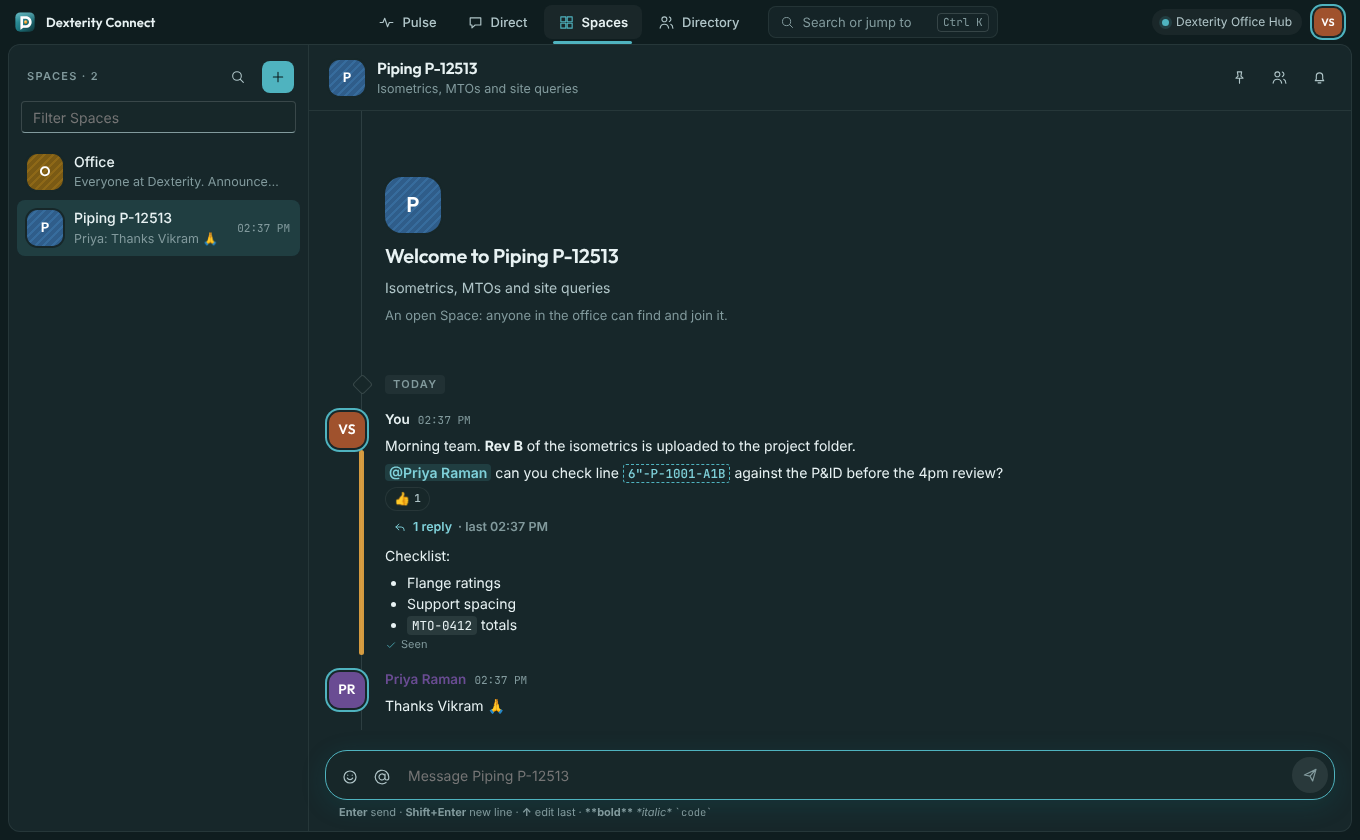
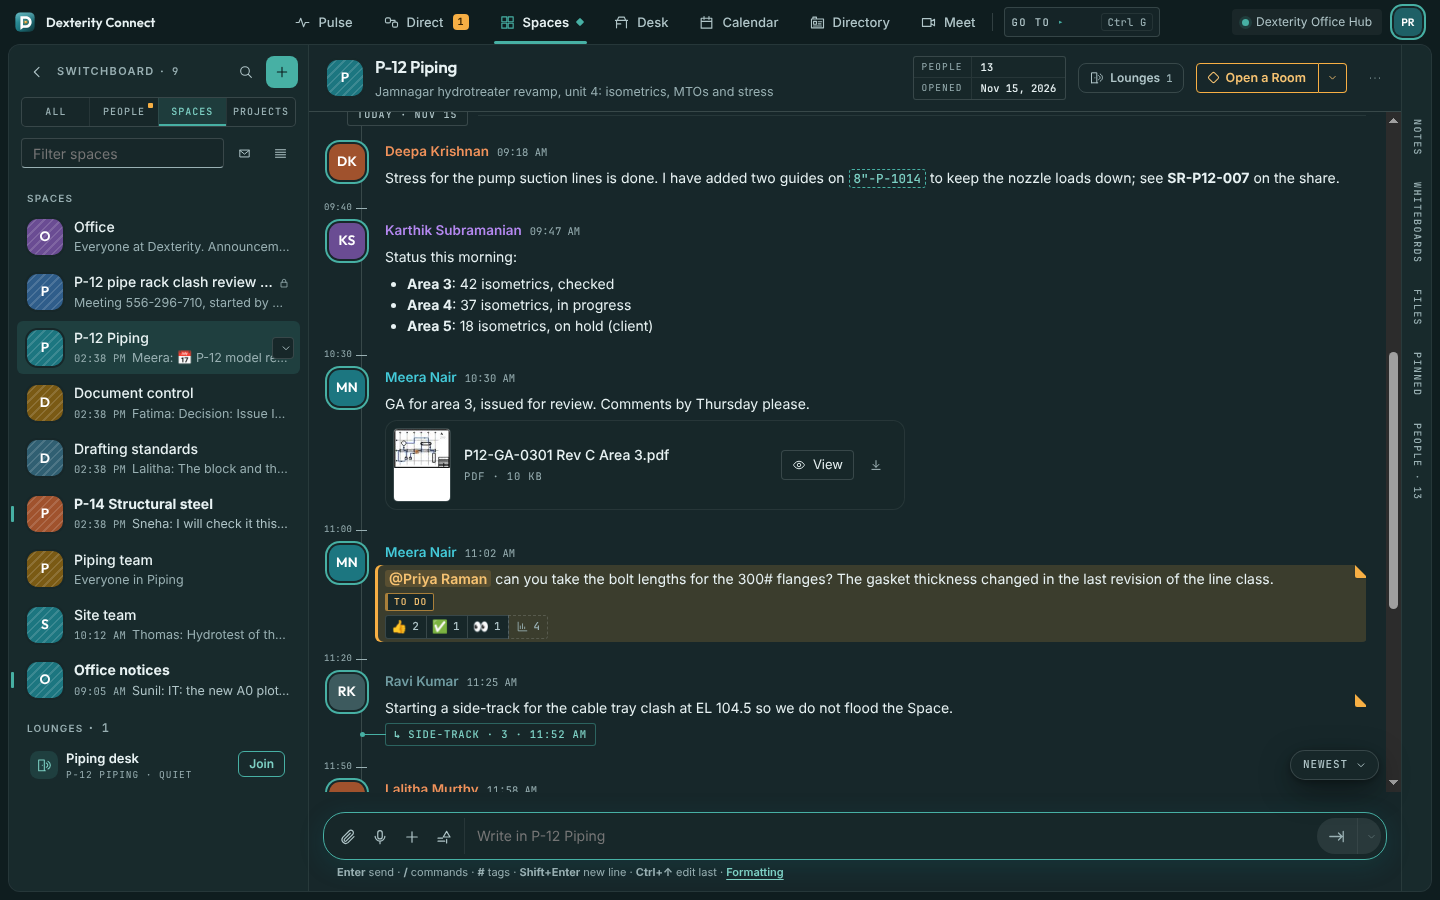
Real screenshots of the current app; meetings, the office drawing, the bot maker and the drawing viewer; claims and shortcuts brought up to date
Claude-Session: https://claude.ai/code/session_01Wvy4AEjSnCgm6R5Urcwzkm

diff --git a/index.html b/index.html
@@ -263,7 +263,7 @@ footer a { color: var(--ink-2); text-decoration: none; }
         <div class="copy">
           <span class="label">Light &amp; dark</span>
           <h3>At home on Windows 11, by day and by night.</h3>
-          <p>Mica surfaces, the system's light or dark mode, and a Ctrl+K palette that jumps to any person, Space or command.</p>
+          <p>Mica surfaces, the system's light or dark mode, and GO TO (Ctrl+G), which jumps to any person, Space or command.</p>
           <ul class="ticks"><li>Pulse shows only what needs you</li><li>Native notifications that open the right conversation</li><li>Unread badge on the taskbar</li></ul>
         </div>
         <div class="shot"><img src="assets/screen-space-dark.png" alt="Dexterity Connect in dark mode" loading="lazy" /></div>
@@ -278,26 +278,65 @@ footer a { color: var(--ink-2); text-decoration: none; }
         <div class="phone-shot"><img src="assets/screen-phone.png" alt="Dexterity Connect on a phone" loading="lazy" /></div>
       </div>
 
+      <div class="feature reveal">
+        <div class="copy">
+          <span class="label">Rooms &amp; meetings</span>
+          <h3>Meetings drawn like a sheet, not a video wall.</h3>
+          <p>Every seat has a grid reference, the host's controls sit in a title block, and leaving is an amber door, not a red handset. Record with chapters for who spoke when, split into breakout rooms, or run a webinar for clients.</p>
+          <ul class="ticks"><li>Lobby, waiting room and host controls</li><li>Background blur and noise suppression on the PC</li><li>Guests join from a browser, no install</li></ul>
+        </div>
+        <div class="shot"><img src="assets/screen-room.png" alt="A Room with three colleagues and the host's controls" loading="lazy" /></div>
+      </div>
+
+      <div class="feature flip reveal">
+        <div class="copy">
+          <span class="label">The office drawing</span>
+          <h3>An org chart you can walk through.</h3>
+          <p>The office laid out as an engineering drawing: departments as areas, reporting lines as routed runs, everyone as a tagged plate that shows who is in. Pan and zoom like a CAD viewer, ask how you connect to someone, or switch to the floor plan and walk to their desk.</p>
+          <ul class="ticks"><li>New joiners, birthdays and work anniversaries marked on the sheet</li><li>See who works together across Spaces</li><li>Replay how the office grew</li></ul>
+        </div>
+        <div class="shot"><img src="assets/screen-office-drawing.png" alt="The office drawing showing the route between two colleagues" loading="lazy" /></div>
+      </div>
+
+      <div class="feature reveal">
+        <div class="copy">
+          <span class="label">Bot maker</span>
+          <h3>Make your own bot in a few minutes.</h3>
+          <p>Plot requests, leave notes, RFI logs, site visits: pick a template or describe it in words, give it a mark, a voice and office hours, and try it beside the editor before anyone sees it. Keep it to yourself, share it with a Space, or ask for it office-wide.</p>
+          <ul class="ticks"><li>No code; the JSON is there if you want it</li><li>Remembers answers ("Same site as last time?")</li><li>Shows where people stop, so you can fix the question</li></ul>
+        </div>
+        <div class="shot"><img src="assets/screen-bot-maker.png" alt="The bot maker with a live test run" loading="lazy" /></div>
+      </div>
+
+      <div class="feature flip reveal">
+        <div class="copy">
+          <span class="label">Drawings</span>
+          <h3>Open an A0 sheet right in the conversation.</h3>
+          <p>PDFs show their first page in the message and open in a viewer built for drawings: fit, zoom to 800%, search the text, rotate, and stay quick on large sheets. Files sent in an encrypted Direct conversation are encrypted on your PC before they leave it.</p>
+        </div>
+        <div class="shot"><img src="assets/screen-pdf.png" alt="A GA drawing open in the PDF viewer" loading="lazy" /></div>
+      </div>
+
       <div class="cards">
         <div class="card wide reveal"><div class="ico"><svg width="20" height="20" viewBox="0 0 24 24" fill="none" stroke="currentColor" stroke-width="1.8"><path d="M12 20a8 8 0 1 0 0-16 8 8 0 0 0 0 16ZM4 12h16M12 4c2.2 2.2 3.3 4.9 3.3 8s-1.1 5.8-3.3 8c-2.2-2.2-3.3-4.9-3.3-8S9.8 6.2 12 4Z"/></svg></div><h3>From home or the road</h3><p>Use every feature on your laptop or phone from home, on leave or on mobile data. Your device talks to the office hub through an encrypted channel; the office opens no ports.</p></div>
-        <div class="card reveal"><div class="ico"><svg width="20" height="20" viewBox="0 0 24 24" fill="none" stroke="currentColor" stroke-width="1.8"><path d="M3.5 6.5h12v11h-12zM15.5 10.5l5-3v9l-5-3"/></svg></div><h3>Rooms</h3><p>Voice and video calls for up to eight people with screen sharing and recording. In the office the media goes PC to PC over the LAN; from home it is encrypted end to end with WebRTC.</p></div>
+        <div class="card reveal"><div class="ico"><svg width="20" height="20" viewBox="0 0 24 24" fill="none" stroke="currentColor" stroke-width="1.8"><path d="M3.5 6.5h12v11h-12zM15.5 10.5l5-3v9l-5-3"/></svg></div><h3>Rooms and meetings</h3><p>Voice and video with screen sharing, recording with chapters, a lobby, breakout rooms and webinars. Up to eight people talk PC to PC; larger Rooms run through the office hub's relay. Clients can join from a browser.</p></div>
         <div class="card reveal"><div class="ico"><svg width="20" height="20" viewBox="0 0 24 24" fill="none" stroke="currentColor" stroke-width="1.8"><path d="M20 11.5 12 19.5a5 5 0 0 1-7-7l8.5-8.5a3.3 3.3 0 0 1 4.7 4.7L9.7 17.2a1.7 1.7 0 0 1-2.4-2.4L15 7"/></svg></div><h3>Files, voice and video</h3><p>Drag, drop or paste drawings, photos and sheets up to 1 GB. Voice notes, video messages and screen recordings play right in the conversation.</p></div>
-        <div class="card reveal"><div class="ico"><svg width="20" height="20" viewBox="0 0 24 24" fill="none" stroke="currentColor" stroke-width="1.8"><path d="M10.5 17a6.5 6.5 0 1 0 0-13 6.5 6.5 0 0 0 0 13Zm4.7-1.8L20 20"/></svg></div><h3>Search everything</h3><p>Find messages and files by who, where and when, including the text in photos of nameplates and markups, and jump straight to the message.</p></div>
+        <div class="card reveal"><div class="ico"><svg width="20" height="20" viewBox="0 0 24 24" fill="none" stroke="currentColor" stroke-width="1.8"><path d="M10.5 17a6.5 6.5 0 1 0 0-13 6.5 6.5 0 0 0 0 13Zm4.7-1.8L20 20"/></svg></div><h3>Search everything</h3><p>Find messages and files by who, where and when, including the text in photos of nameplates and markups. End-to-end encrypted Direct messages are searched on your own PC, never on the hub.</p></div>
         <div class="card reveal"><div class="ico"><svg width="20" height="20" viewBox="0 0 24 24" fill="none" stroke="currentColor" stroke-width="1.8"><path d="M12 20a8 8 0 1 0 0-16 8 8 0 0 0 0 16Zm0-12v4.5l3 2"/></svg></div><h3>Presence that means something</h3><p>Available, Busy, Do not disturb or Invisible. You show as away automatically when your PC is idle or locked, and as in a Room during calls.</p></div>
         <div class="card reveal"><div class="ico"><svg width="20" height="20" viewBox="0 0 24 24" fill="none" stroke="currentColor" stroke-width="1.8"><path d="M4 19.5h16M6 19.5V9.5l6-4 6 4v10M10 19.5v-5h4v5"/></svg></div><h3>Your Desk</h3><p>Reminders for you or a colleague, saved messages, messages scheduled to send later, personal notes and your timesheet, in one place.</p></div>
         <div class="card reveal"><div class="ico"><svg width="20" height="20" viewBox="0 0 24 24" fill="none" stroke="currentColor" stroke-width="1.8"><path d="M4.5 6.5h15v13h-15zM4.5 10.5h15M8.5 4v4M15.5 4v4"/></svg></div><h3>Calendar and rooms</h3><p>Meetings with invitations and replies, repeating events, conference rooms that cannot be double-booked, and one click to join the call.</p></div>
-        <div class="card reveal"><div class="ico"><svg width="20" height="20" viewBox="0 0 24 24" fill="none" stroke="currentColor" stroke-width="1.8"><path d="M12 4.5a3 3 0 1 1 0 6 3 3 0 0 1 0-6zM5.5 19.5a6.5 6.5 0 0 1 13 0"/></svg></div><h3>Directory and org chart</h3><p>Departments, designations, reporting lines, extensions and seats, with an org chart and a CSV import from Excel or Dexterity Sheets.</p></div>
-        <div class="card reveal"><div class="ico"><svg width="20" height="20" viewBox="0 0 24 24" fill="none" stroke="currentColor" stroke-width="1.8"><path d="M12 20a8 8 0 1 0 0-16 8 8 0 0 0 0 16Zm-3.5-8 2.5 2.5 4.5-5"/></svg></div><h3>Check in from anywhere</h3><p>Check in from the office, home, a site or a client's, with breaks, a live who's-working view and attendance reports for managers.</p></div>
+        <div class="card reveal"><div class="ico"><svg width="20" height="20" viewBox="0 0 24 24" fill="none" stroke="currentColor" stroke-width="1.8"><path d="M12 4.5a3 3 0 1 1 0 6 3 3 0 0 1 0-6zM5.5 19.5a6.5 6.5 0 0 1 13 0"/></svg></div><h3>Directory</h3><p>Departments, designations, reporting lines, extensions and seats, with a CSV import from Excel or Dexterity Sheets, and a register of everyone in the office.</p></div>
+        <div class="card reveal"><div class="ico"><svg width="20" height="20" viewBox="0 0 24 24" fill="none" stroke="currentColor" stroke-width="1.8"><path d="M12 20a8 8 0 1 0 0-16 8 8 0 0 0 0 16Zm-3.5-8 2.5 2.5 4.5-5"/></svg></div><h3>A day log, from anywhere</h3><p>Start your day at the office, at home, on site or at a client's, with breaks, a live who's-working view and attendance reports for managers.</p></div>
         <div class="card reveal"><div class="ico"><svg width="20" height="20" viewBox="0 0 24 24" fill="none" stroke="currentColor" stroke-width="1.8"><path d="M4 12h3l2-5 4 10 2-5h5"/></svg></div><h3>Works with the hub off</h3><p>If the hub PC is down, PCs find each other and pass encrypted Direct messages straight across; the history catches up when it is back.</p></div>
         <div class="card reveal"><div class="ico"><svg width="20" height="20" viewBox="0 0 24 24" fill="none" stroke="currentColor" stroke-width="1.8"><path d="M12 3.5 5 6v5.5c0 4.3 2.9 7.9 7 9 4.1-1.1 7-4.7 7-9V6z"/></svg></div><h3>Guests and compliance</h3><p>Invite clients to chosen Spaces for a set time. Retention, legal holds, exports, edit windows, upload limits and a usage report for admins.</p></div>
         <div class="card reveal"><div class="ico"><svg width="20" height="20" viewBox="0 0 24 24" fill="none" stroke="currentColor" stroke-width="1.8"><path d="M5 19.5V11M10 19.5V5M15 19.5v-6M20 19.5V8"/></svg></div><h3>Polls, forms and whiteboards</h3><p>Ask the room with a poll or a form, keep shared notes per conversation, and sketch on a live whiteboard that posts as an image.</p></div>
-        <div class="card reveal"><div class="ico"><svg width="20" height="20" viewBox="0 0 24 24" fill="none" stroke="currentColor" stroke-width="1.8"><path d="M4 7.5h16v10H4zM7 10.5h.01M10 10.5h.01M13 10.5h.01M16 10.5h.01M8 14.5h8"/></svg></div><h3>Made for the keyboard</h3><p>Ctrl+K for anything, Ctrl+Shift+F to search, Alt+arrows between conversations, plus compact density, text size and quiet notification sounds.</p></div>
+        <div class="card reveal"><div class="ico"><svg width="20" height="20" viewBox="0 0 24 24" fill="none" stroke="currentColor" stroke-width="1.8"><path d="M4 7.5h16v10H4zM7 10.5h.01M10 10.5h.01M13 10.5h.01M16 10.5h.01M8 14.5h8"/></svg></div><h3>Made for the keyboard</h3><p>Ctrl+G to go anywhere, Ctrl+Shift+F to search, Alt+arrows between conversations, plus compact density, text size and quiet notification sounds.</p></div>
       </div>
 
       <div class="stats reveal">
         <div><b>0</b><span>connections to the internet needed</span></div>
         <div><b>&lt;50 ms</b><span>message delivery across the office</span></div>
-        <div><b>~150 KB</b><span>compressed interface code, so it opens instantly</span></div>
+        <div><b>0.6 s</b><span>from click to a working window, with 60,000 messages in the office</span></div>
         <div><b>4</b><span>platforms from one codebase</span></div>
       </div>
     </div>
@@ -324,10 +363,10 @@ footer a { color: var(--ink-2); text-decoration: none; }
       <span class="label reveal">Security</span>
       <h2 class="reveal">Your data stays yours. Nobody joins uninvited.</h2>
       <div class="cards">
-        <div class="card reveal"><div class="ico"><svg width="20" height="20" viewBox="0 0 24 24" fill="none" stroke="currentColor" stroke-width="1.8"><path d="M6 10.5h12V20H6zM8.5 10.5V8a3.5 3.5 0 0 1 7 0v2.5"/></svg></div><h3>Device keys</h3><p>Every PC and phone has its own Ed25519 key, sealed by Windows. Signing in never involves a password.</p></div>
+        <div class="card reveal"><div class="ico"><svg width="20" height="20" viewBox="0 0 24 24" fill="none" stroke="currentColor" stroke-width="1.8"><path d="M6 10.5h12V20H6zM8.5 10.5V8a3.5 3.5 0 0 1 7 0v2.5"/></svg></div><h3>Device keys</h3><p>Every PC and phone has its own Ed25519 key, sealed by Windows, and by the Android Keystore on phones. Signing in never involves a password.</p></div>
         <div class="card reveal"><div class="ico"><svg width="20" height="20" viewBox="0 0 24 24" fill="none" stroke="currentColor" stroke-width="1.8"><path d="M12 3.5 5 6v5.5c0 4.3 2.9 7.9 7 9 4.1-1.1 7-4.7 7-9V6zM9 12l2.2 2.2L15.5 10"/></svg></div><h3>Approved devices only</h3><p>An admin approves each new device by matching a code shown on both screens. Lost laptops are removed in one click.</p></div>
         <div class="card reveal"><div class="ico"><svg width="20" height="20" viewBox="0 0 24 24" fill="none" stroke="currentColor" stroke-width="1.8"><path d="M4 4.5h16v6H4zM4 13.5h16v6H4z"/></svg></div><h3>Pinned encryption</h3><p>In the office all traffic is TLS, pinned to the hub's own certificate. From outside, each device runs its own X25519 and AES-256-GCM channel to the hub, checked against the same certificate, so the relay in between sees only scrambled data.</p></div>
-        <div class="card reveal"><div class="ico"><svg width="20" height="20" viewBox="0 0 24 24" fill="none" stroke="currentColor" stroke-width="1.8"><path d="M8 6h12M8 12h12M8 18h12M4 6h.01M4 12h.01M4 18h.01"/></svg></div><h3>Private Direct messages</h3><p>Direct messages are end-to-end encrypted between devices: the hub stores only sealed envelopes. Every admin action is in the audit log.</p></div>
+        <div class="card reveal"><div class="ico"><svg width="20" height="20" viewBox="0 0 24 24" fill="none" stroke="currentColor" stroke-width="1.8"><path d="M8 6h12M8 12h12M8 18h12M4 6h.01M4 12h.01M4 18h.01"/></svg></div><h3>Private Direct messages</h3><p>Direct messages and their files are end-to-end encrypted between devices: the hub stores only sealed envelopes and ciphertext. Every admin action is in the audit log.</p></div>
       </div>
     </div>
   </section>
@@ -340,11 +379,11 @@ footer a { color: var(--ink-2); text-decoration: none; }
         <div class="step reveal"><h3>Install the hub</h3><p>Unzip it on one always-on PC (for example <span class="mono">D:\Dexterity Connect Hub</span>) and double-click <span class="mono">Install-Hub.cmd</span>. It becomes a Windows service.</p></div>
         <div class="step reveal"><h3>Install the app</h3><p>Run the installer on your PC and click <b>Request access</b>. The first person becomes the owner.</p></div>
         <div class="step reveal"><h3>Approve colleagues</h3><p>As colleagues install, approve them in the Control room by matching their device code.</p></div>
-        <div class="step reveal"><h3>Open it to home (optional)</h3><p>Deploy the gateway to your free Cloudflare account from GitHub Actions, paste its address in <b>Control room → Outside the office</b> and switch it on.</p></div>
+        <div class="step reveal"><h3>Open it to home (optional)</h3><p>Deploy the gateway to your free Cloudflare account with <span class="mono">Deploy-Gateway.cmd</span>, paste its address in <b>Control room → Outside the office</b> and switch it on.</p></div>
       </div>
       <table class="keys reveal">
-        <tr><td><kbd>Ctrl</kbd><kbd>K</kbd></td><td>Jump to anyone, any Space, any command</td></tr>
-        <tr><td><kbd>Ctrl</kbd><kbd>1</kbd>–<kbd>4</kbd></td><td>Pulse, Direct, Spaces, Directory</td></tr>
+        <tr><td><kbd>Ctrl</kbd><kbd>G</kbd></td><td>Go to anyone, any Space, any command</td></tr>
+        <tr><td><kbd>Ctrl</kbd><kbd>1</kbd>–<kbd>7</kbd></td><td>Pulse, Direct, Spaces, Desk, Calendar, Directory, Meet</td></tr>
         <tr><td><kbd>↑</kbd></td><td>Edit your last message</td></tr>
         <tr><td><kbd>Ctrl</kbd><kbd>B</kbd> / <kbd>Ctrl</kbd><kbd>I</kbd></td><td>Bold and italic in the Dock</td></tr>
         <tr><td><kbd>Ctrl</kbd><kbd>,</kbd></td><td>Preferences</td></tr>
